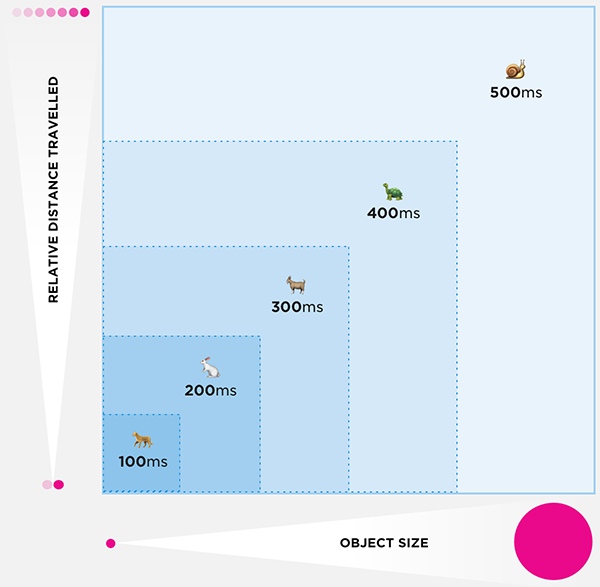
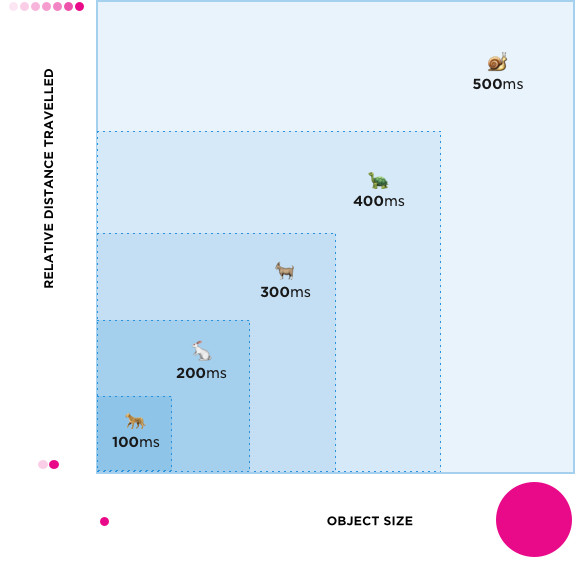
refactor(site): add 2x motion graphic

diff --git a/packages/site/pages/core/motion.js b/packages/site/pages/core/motion.js
@@ -86,6 +86,8 @@ const Relative = _ => (
   <div className="relative">
     <img
       alt="Use slower animations for larger objects or longer distances."
+      srcSet="/static/img/motionSpeedScale.png,
+              /static/img/motionSpeedScale@2x.png 1.5x"
       src="/static/img/motionSpeedScale.png"
     />
     <style jsx>{`
